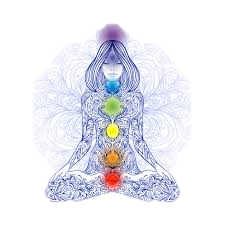
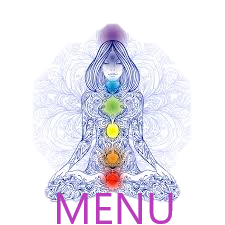
Polishing some details, adding hrefs

Changed region(s): [[0.2489, 0.84, 0.7778, 0.9956]]

diff --git a/src/components/body/contact/Contact.js b/src/components/body/contact/Contact.js
@@ -1,6 +1,5 @@
 import React, { Component } from 'react';
 import './Contact.css';
-import phoneLogo from './phone_logo.png'
 import Location from '../location/Location';
 
 class Contact extends Component {
@@ -12,19 +11,18 @@ class Contact extends Component {
                 <div className="contact__contain">
                     <div className="contact__social">
                         <div className="contact__social__phone">
-                        <img src={phoneLogo} alt="phone logo"></img>
-                            <p>Podes contactarme al: 1122334455 <br></br>para reserva de turnos, cosultas y mas</p>
+                        <i className="fa fa-mobile" aria-hidden="true"></i>
+                            <p>Podes contactarme al:  (+549) 11-3450-1312 <br></br>para reserva de turnos, cosultas y mas</p>
                         </div>
                         <div className="contact__social__mail">
-                            <a href="www" className="fa fa-envelope-o"> </a>
+                            <a href="www." className="fa fa-envelope-o"> </a>
                             <p>Podes enviarme un email a <br></br>samanta.castrucci@gmail.com</p>
                         </div>
                         <div className="contact__Social_medias">
                             <p>Seguime en las redes sociales!</p>
                             <div>
-                                <a href="www" className="fa fa-facebook"> </a>
-        <                       a href="www" className="fa fa-instagram"> </a>
-        <                       a href="www" className="fa fa-whatsapp"> </a>
+                                <a href="https://www.facebook.com/samanta.castrucci" className="fa fa-facebook"> </a>
+        <                       a href="https://www.instagram.com/reikiusuiterapias/?hl=en" className="fa fa-instagram"> </a>
                             </div>
                         </div>
                     </div>

diff --git a/src/components/body/terapy/Terapy.js b/src/components/body/terapy/Terapy.js
@@ -38,15 +38,15 @@ class Terapy extends Component {
                     Los beneficios mas notorios después de una sesión de Reiki son los
                     siguientes:</p>
                     <ul>
-                        <li>Descanso profundo.</li>
-                        <li>Disminución del estrés y la ansiedad.</li>
-                        <li> Mejora la concentración.</li>
-                        <li>Mejora el estado de ánimo y trae una mayor equilibrio emocional.</li>
-                        <li>Mejora la creatividad.</li>
-                        <li>Alivia dolores.</li>
-                        <li>Trae mayor energía física</li>
-                        <li>Mejora la capacidad para enfrentar los miedos y da otra perspectiva ante <br></br>
-                        problemas en los que antes uno no veia solución</li>
+                        <li>    Descanso profundo.</li>
+                        <li>    Disminución del estrés y la ansiedad.</li>
+                        <li>    Mejora la concentración.</li>
+                        <li>    Mejora el estado de ánimo</li>
+                        <li>    trae una mayor equilibrio emocional.</li>
+                        <li>    Mejora la creatividad.</li>
+                        <li>    Alivia dolores.</li>
+                        <li>    Trae mayor energía física</li>
+                        <li>    mejora la seguridad en uno mismo</li>
                     </ul>        
                 </div>
 

diff --git a/src/components/body/home/Home.css b/src/components/body/home/Home.css
@@ -20,7 +20,7 @@
 .home__container__text{
     margin: 0;
     position: absolute;
-    left: 10%;
+    left: 40%;
     top: 10%;
     font-family: 'Merienda', cursive;
     color: white;
@@ -38,11 +38,12 @@
 
 .home__container__chakras__main{
     position: absolute;
-    top: 60%;
-    width: 100%;
+    width: 20%;
     height: 20px;
     display: grid;
-    grid-template-columns: 1fr 1fr 1fr 1fr 1fr 1fr 1fr;
+    /*grid-template-columns: 1fr 1fr 1fr 1fr 1fr 1fr 1fr;*/
+    grid-template-columns: 1fr;
+    grid-template-rows: 1fr 1fr 1fr 1fr 1fr 1fr 1fr;
 }
 .home__container__chakras p{
     font-family: 'Merienda', cursive;
@@ -53,10 +54,11 @@
 }
 
 .home__container__chakras{
-    background-color: rgba(0, 0, 0, .2);
-    border-radius: 50%;
     transition: 1s;
     cursor: pointer;
+
+    background-color: rgb(34, 47, 62,0.8);
+    z-index: 1;
 }
 
 .home__container__chakras:hover >  img{
@@ -73,12 +75,13 @@
 }
 
 .home__container__chakras img{
-    height: 8rem;
+    height: 6.5rem;
     margin: 0;
     padding: 0px;
     transition: 5s;
 }
 
+/*
 .home__container__chakras--ch1{
     grid-row: 1;
     grid-column: 1;
@@ -114,7 +117,7 @@
     grid-row: 1;
     grid-column: 7;
 }
-
+*/
 
 @media only screen and (max-width: 1200px) {
 

diff --git a/src/components/footer/Footer.js b/src/components/footer/Footer.js
@@ -5,9 +5,23 @@ class Footer extends Component {
     render(){
         return(
             <footer className="footer">
-                    <div><h2>React</h2></div>
+                    <div><h2>a React App</h2></div>
                     <div className="footer__botoom_author">
-                        <h2>Diseño y Desarrollo por Maximiliano Castrucci</h2>
+                        <h2>2019 - Diseño y Desarrollo por Maximiliano Castrucci</h2>
+                        <ul>
+                            <li>
+                                <a href="https://www.linkedin.com/in/maximiliano-castrucci-b1408b96/" >
+                                    <i className="fa fa-linkedin" aria-hidden="true"></i>
+                                </a>
+                            </li>
+
+                            <li>
+                                <a href="https://www.facebook.com/maximiliano.castrucci" >
+                                    <i className="fa fa-facebook" aria-hidden="true"></i>
+                                </a>
+                            </li>
+
+                        </ul>
                     </div>
             </footer>
         );

diff --git a/src/components/Social/SocialMedias.js b/src/components/Social/SocialMedias.js
@@ -9,13 +9,13 @@ class SocialMedias extends Component {
         return(
             <div className="social-medias">
                 <div className="social-medias__facebook social-media_button">
-                    <a href="www."><img src={fbLogo} alt="Facebook logo"></img></a>
+                    <a href="https://www.facebook.com/samanta.castrucci"><img src={fbLogo} alt="Facebook logo"></img></a>
                 </div>
                 <div className="social-medias__whatsapp social-media_button">
-                <a href="www."><img src={wpLogo} alt="Whatsapp logo"></img></a>
+                <img src={wpLogo} onClick={ ()=>this.props.onRouteChange('contact')} alt="Whatsapp logo"></img>
                 </div>
                 <div className="social-medias__Instagram social-media_button">
-                <a href="www."><img src={inLogo} alt="Instagram logo"></img></a>
+                <a href="https://www.instagram.com/reikiusuiterapias/?hl=en"><img src={inLogo} alt="Instagram logo"></img></a>
                 </div>
             </div>
         );

diff --git a/src/components/body/contact/Contact.css b/src/components/body/contact/Contact.css
@@ -108,7 +108,7 @@
 /* Style all font awesome icons */
 .fa {
     padding: 20px;
-    font-size: 50px;
+    font-size: 5rem;
     width: 50px;
     text-align: center;
     text-decoration: none;
@@ -141,14 +141,21 @@
 .fa-envelope-o{
     background: #e95950;
     color: white;
+    border-radius: 30px;
 }
 
-.contact__social__mail{
-    font-size: 5rem;
+.fa-mobile{
+    background: #4dc247;
+    color: white;
+    border-radius: 30px;
 }
 
-.contact__social__mail{
-    font-size: 5rem;
+.contact__social__mail, .contact__social__phone{
+    font-size: 4rem;
+    align-items: center;
+    display: grid;
+    grid-template-columns: 20% 70%;
+    justify-items: end;
 }
 
 @media only screen and (max-width: 900px) {
@@ -166,6 +173,13 @@
         align-content: center;
         background-color: rgb(192, 192, 192);
         height: 120%;
+    }
+}
+
+@media only screen and (max-width: 650px) {
+    .contact__social__mail, .contact__social__phone{
+        grid-template-columns: 1fr;
+        justify-items: center;
     }
 }
 

diff --git a/src/components/nav/Nav.js b/src/components/nav/Nav.js
@@ -28,9 +28,11 @@ class Nav extends Component {
             <nav className="header__nav">
                 <MainNav onRouteChange={this.props.onRouteChange}/>
                 <div className="header__nav_icon">
-                        <img alt ='meditating nav logo' src={navigator}
-                        onClick={this.handleMouseHover}>
-                        </img>
+                        <div className="header__nav_icon--menu">
+                            <img alt ='meditating nav logo' src={navigator}
+                            onClick={this.handleMouseHover}>
+                            </img>
+                        </div>
                         {
                             this.state.isHovering &&
                             <StickyNav mouseHover={this.handleMouseHover} onRouteChange={this.props.onRouteChange}/>

diff --git a/src/components/body/location/Location.js b/src/components/body/location/Location.js
@@ -16,11 +16,16 @@ class Location extends Component {
     render(){
         return(
             <div className="location">
-                <h2>Atendemos En Boedo!</h2>
+                <h2 className="contact__title">Reiki en Capital</h2>
+                <h3>Atendemos En Boedo!</h3>
                 {//
                 //<div className="powr-map" id='944d3fb4_1554382533'></div>
                 }
-                <img src={map} alt="location"></img>
+                <div className="location__map">
+                    <a href="https://goo.gl/maps/V46XFZWuyNQ2">
+                        <img src={map} alt="location"></img>
+                    </a>
+                </div>
             </div>   
         );
     }

diff --git a/src/components/footer/Footer.css b/src/components/footer/Footer.css
@@ -12,3 +12,26 @@
     font-family: 'Merienda', cursive;
 }
 
+.footer ul {
+    list-style: none;
+}
+
+.footer li {
+    display: inline-block;
+    cursor: pointer;
+}
+
+.footer li i{
+    font-size: 2rem;
+    color: white;
+    border: 1px solid black;
+    border-radius: 20px;
+    padding: 1rem;
+}
+
+.fa-linkedin{
+    background-color: #007bb5;
+}
+.fa-facebook{
+    background-color: #3b5998;
+}

diff --git a/src/containers/App.js b/src/containers/App.js
@@ -28,6 +28,7 @@ class App extends Component {
 
   onRouteChange = (route) =>{
     this.setState ({route: route});
+    window.scrollTo(0, 0);
   }
 
   render() {
@@ -59,7 +60,7 @@ class App extends Component {
             }
             <Footer/>
           </div>
-          <SocialMedias/>
+          <SocialMedias onRouteChange={this.onRouteChange}/>
         </div>
       }
       </div>

diff --git a/src/components/body/location/Location.css b/src/components/body/location/Location.css
@@ -1,11 +1,24 @@
-.location h2{
-    padding-top: 10%;
+.location h3{
     font-size: 4rem;
 }
+
+.location h2{
+    font-size: 3rem;
+}
+
 
 .location img{
     width: 90%;
     padding-right: 10%;
     padding-left: 5%;
     margin-bottom: 5%;
+}
+
+.location .contact__title{
+    padding-top: 10%;
+    font-size: 5rem;
+}
+
+.location__map{
+    cursor: pointer;
 }

diff --git a/src/components/nav/Nav.css b/src/components/nav/Nav.css
@@ -136,6 +136,11 @@
         transition: 1s;
     }
 
+    .header__nav_icon--menu img{
+        background-color: rgb(236, 240, 241, .1);
+        border-radius: 30%;
+    }
+
     .header__nav_icon img:hover{
         transform: scale(1.1);
         background: rgb(176,34,173);
